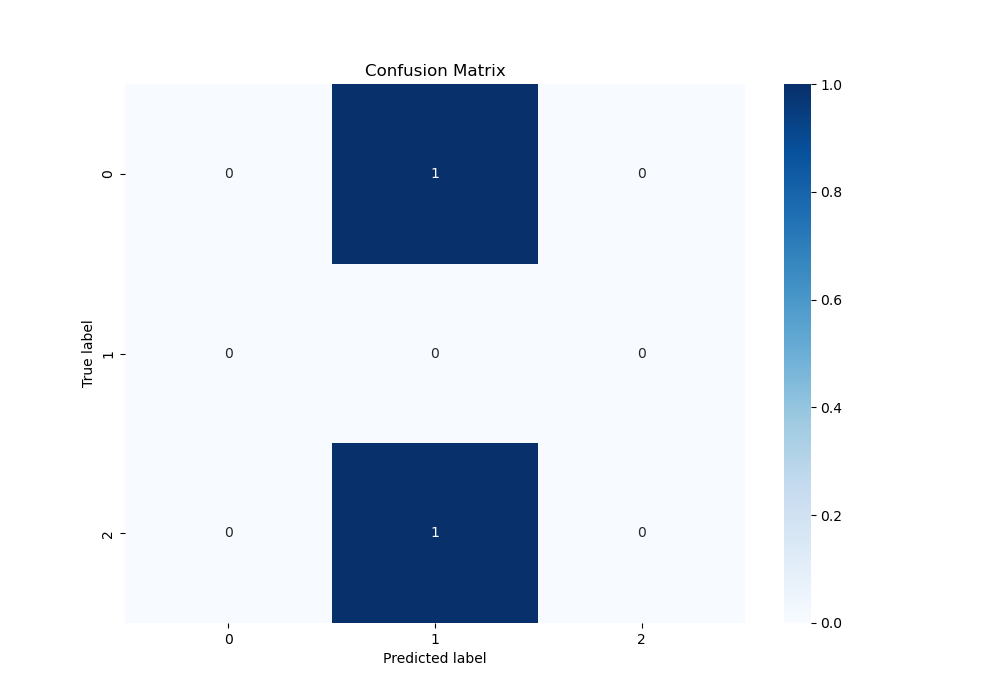
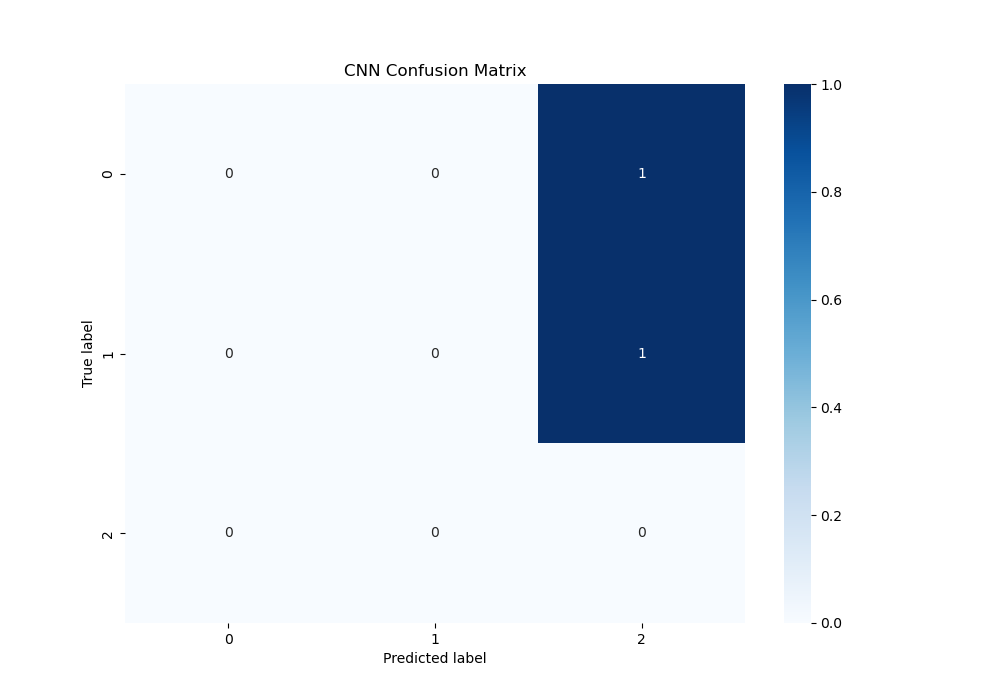
Update CNN.py and add visualization outputs
This commit adds several visualization outputs to the CNN.py script for better analysis and understanding of the Convolutional Neural Network model. Specifically, it includes saving the confusion matrix, class activation heatmap, model accuracy and loss plots, precision-recall curve, receiver operating characteristic curve, t-SNE visualization of features, histogram of weights and biases, learning rate over epochs plot, gradient flow plot, and attention map visualization. These visualizations provide insights into the model's performance, feature representations, and training dynamics.

Changed region(s): [[0.31, 0.09, 0.744, 0.9]]

diff --git a/Data Zenodo/Convolutional_Neural_Network_Exploration/CNN.py b/Data Zenodo/Convolutional_Neural_Network_Exploration/CNN.py
@@ -99,6 +99,7 @@ from sklearn.metrics import confusion_matrix
 cm = confusion_matrix(y_test, predicted_classes)
 plt.figure(figsize=(10, 7))
 sns.heatmap(cm, annot=True, fmt='d', cmap='Blues')
+plt.savefig("CNN_confusion_matrix.png")
 plt.show()
 
 import tensorflow as tf
@@ -120,7 +121,8 @@ def plot_class_activation_maps(model, img_array, class_idx):
         heatmap = np.maximum(heatmap, 0) / np.max(heatmap)
 
     plt.matshow(heatmap[0])
-    plt.title('Heatmap of Class Activation')
+    plt.title('CNN Heatmap of Class Activation')
+    plt.savefig("CNN_class_activation_heatmap.png")
     plt.show()
 
 
@@ -270,7 +272,7 @@ history = model.fit(X_train, y_train, epochs=10, validation_data=(X_test, y_test
 # Plot training & validation accuracy values
 plt.plot(history.history['accuracy'])
 plt.plot(history.history['val_accuracy'])
-plt.title('Model accuracy')
+plt.title('CNN Model accuracy')
 plt.ylabel('Accuracy')
 plt.xlabel('Epoch')
 plt.legend(['Train', 'Test'], loc='upper left')
@@ -280,7 +282,7 @@ plt.show()
 # Plot training & validation loss values
 plt.plot(history.history['loss'])
 plt.plot(history.history['val_loss'])
-plt.title('Model loss')
+plt.title('CNN Model loss')
 plt.ylabel('Loss')
 plt.xlabel('Epoch')
 plt.legend(['Train', 'Test'], loc='upper left')
@@ -302,7 +304,7 @@ cm = confusion_matrix(true_classes, predicted_classes)
 # Plotting
 plt.figure(figsize=(10, 7))
 sns.heatmap(cm, annot=True, fmt='d', cmap='Blues')
-plt.title('Confusion Matrix')
+plt.title('CNN Confusion Matrix')
 plt.ylabel('True label')
 plt.xlabel('Predicted label')
 plt.savefig('cnnconfusion_matrix.png')  # Saving the figure
@@ -391,8 +393,9 @@ def plot_roc_curve(y_true, y_pred, n_classes):
     plt.ylim([0.0, 1.05])
     plt.xlabel('False Positive Rate')
     plt.ylabel('True Positive Rate')
-    plt.title('Receiver Operating Characteristic')
+    plt.title('CNN Receiver Operating Characteristic')
     plt.legend(loc="lower right")
+    plt.savefig("CNN_Receiver_Operating_Characteristic.png")
     plt.show()
 
 # For Precision-Recall Curve
@@ -409,8 +412,9 @@ def plot_precision_recall_curve(y_true, y_pred, n_classes):
         plt.plot(recall[i], precision[i], label=f'Precision-recall curve of class {i} (area = {average_precision[i]:.2f})')
     plt.xlabel('Recall')
     plt.ylabel('Precision')
-    plt.title('Precision-Recall curve')
+    plt.title('CNN Precision-Recall curve')
     plt.legend(loc="upper right")
+    plt.savefig("CNN_Precision_Recall_Curve.png")
     plt.show()
 
 # Adjusting t-SNE with appropriate perplexity
@@ -422,7 +426,8 @@ def plot_tsne(features, labels, n_components=2, perplexity=30):
     plt.colorbar(scatter)
     plt.xlabel('TSNE Component 1')
     plt.ylabel('TSNE Component 2')
-    plt.title('t-SNE visualization of Features')
+    plt.title('CNN t-SNE visualization of Features')
+    plt.savefig("CNN_t_SNE_Visualization_of_Features.png")
     plt.show()
 
 
@@ -447,7 +452,8 @@ def plot_heatmap_of_class_activation(model, img, class_idx):
 
     # Display the heatmap
     plt.matshow(heatmap)
-    plt.title('Heatmap of Class Activation')
+    plt.title('CNN Heatmap of Class Activation')
+    plt.savefig("CNN_Heatmap_Of_Class_Activation.png")
     plt.show()
 
 # For Model Architecture Visualization
@@ -462,10 +468,11 @@ def plot_histogram_weights_and_biases(model):
     plt.figure(figsize=(10, 5))
     plt.subplot(1, 2, 1)
     plt.hist(np.concatenate([np.ravel(w) for w in weights]), bins=50)
-    plt.title('Histogram of Weights')
+    plt.title('CNN Histogram of Weights')
     plt.subplot(1, 2, 2)
     plt.hist(np.concatenate([np.ravel(b) for b in biases]), bins=50)
-    plt.title('Histogram of Biases')
+    plt.title('CNN Histogram of Biases')
+    plt.savefig("CNN_Histogram_of_Biases.png")
     plt.show()
 import tensorflow as tf
 
@@ -487,9 +494,10 @@ def plot_learning_rate_scheduler(history):
         return
     plt.figure(figsize=(10, 5))
     plt.plot(lr)
-    plt.title('Learning Rate over Epochs')
+    plt.title('CNN Learning Rate over Epochs')
     plt.xlabel('Epoch')
     plt.ylabel('Learning Rate')
+    plt.savefig("CNN_Learning_rate_Over_Epochs.png")
     plt.show()
 
 
@@ -501,9 +509,10 @@ def plot_gradients_flow(model, inputs, outputs):
     grads = tape.gradient(loss, model.trainable_weights)
     plt.figure(figsize=(10, 5))
     plt.hist([np.max(g) for g in grads if g is not None], bins=20)
-    plt.title('Gradient Flow')
+    plt.title('CNN Gradient Flow')
     plt.xlabel('Maximum Gradient per Layer')
     plt.ylabel('Frequency')
+    plt.savefig("CNN_Gradient_Flow.png")
     plt.show()
 
 # For Attention Maps Visualization
@@ -514,7 +523,8 @@ def plot_attention_maps(model, attention_layer_name, input_data):
     attention_result = attention_model.predict(input_data)
     plt.matshow(attention_result[0], cmap='viridis')
     plt.colorbar()
-    plt.title('Attention Map')
+    plt.title('CNN Attention Map')
+    plt.savefig("CNN_Attention_Map.png")
     plt.show()
 
 
